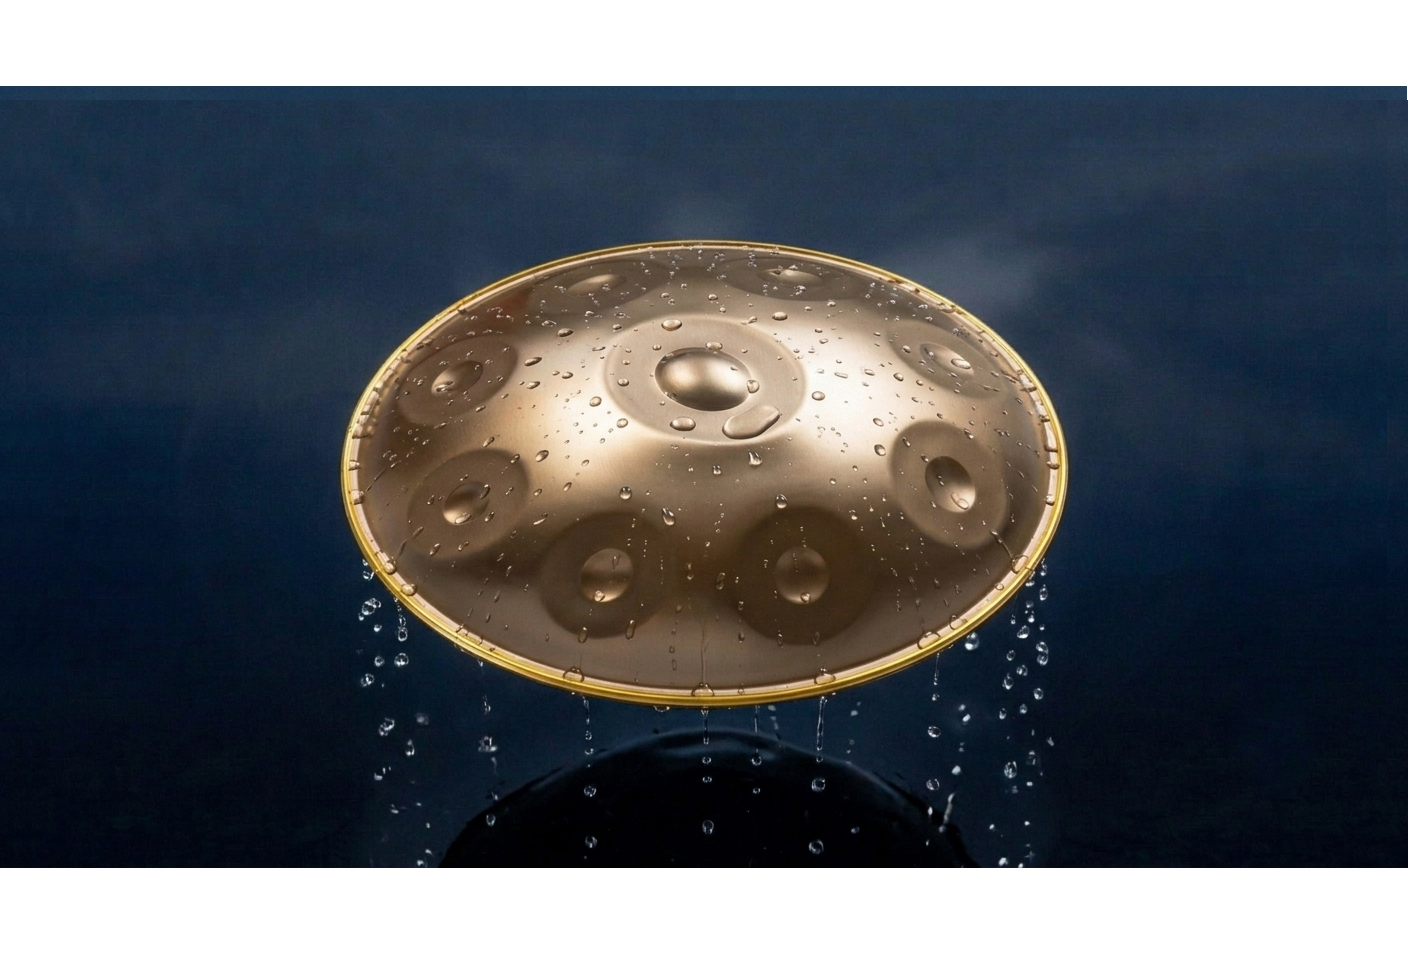
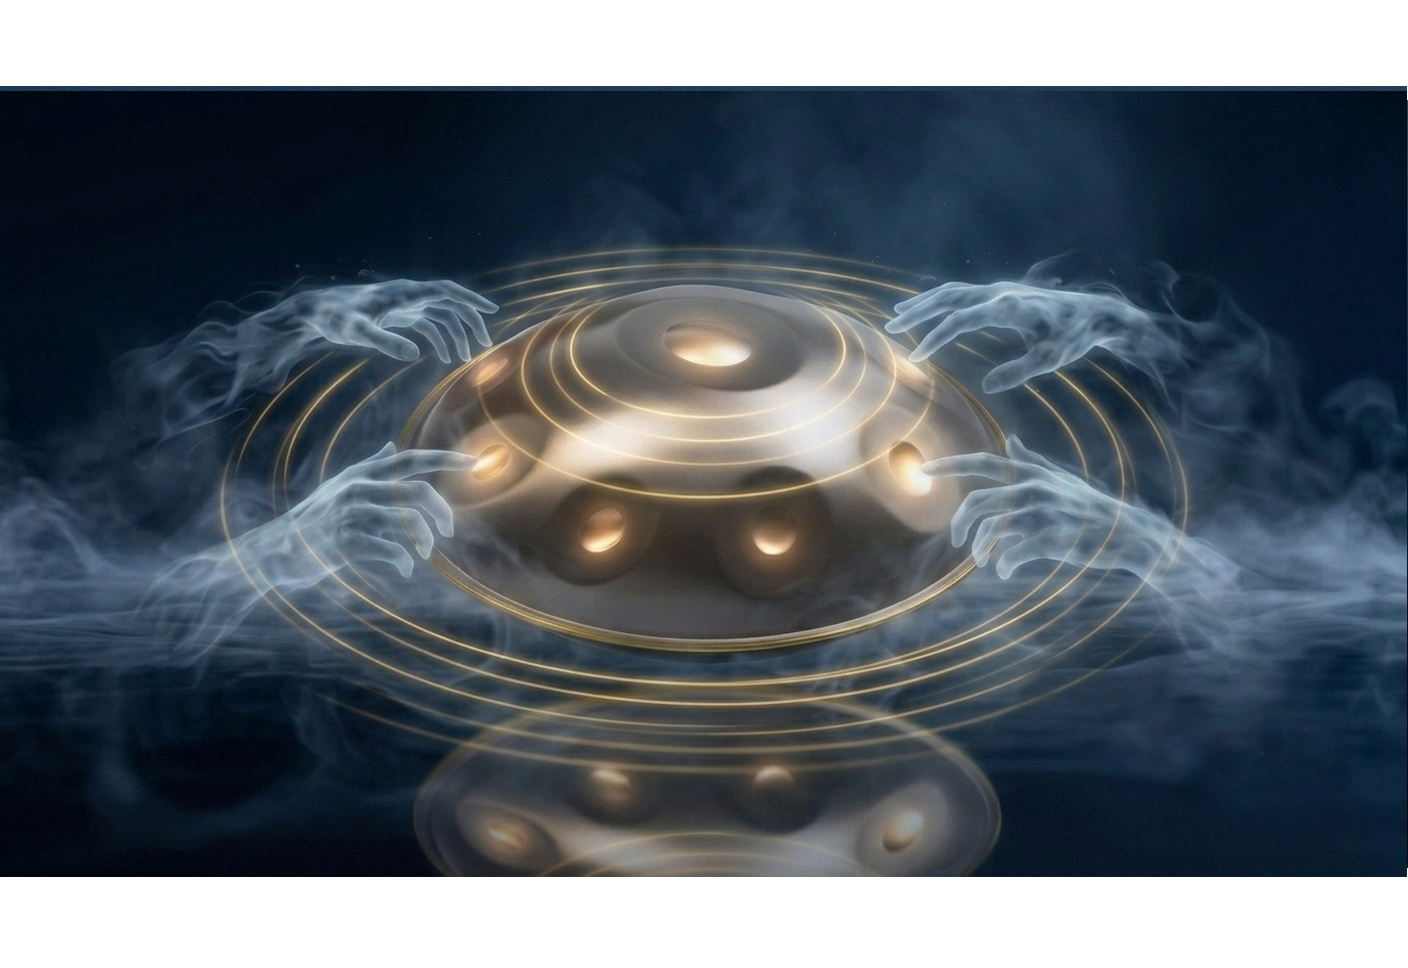
update hero frames to 571 frames

diff --git a/scroll-frame-hero.html b/scroll-frame-hero.html
@@ -1,0 +1,208 @@
+<!DOCTYPE html>
+<html lang="fa" dir="rtl">
+<head>
+<meta charset="UTF-8">
+<meta name="viewport" content="width=device-width, initial-scale=1.0">
+<title>Scroll Frame Hero</title>
+<style>
+  * { margin: 0; padding: 0; box-sizing: border-box; }
+
+  body {
+    font-family: -apple-system, "Segoe UI", Tahoma, sans-serif;
+  }
+
+  /* این کانتینر ارتفاعش رو تعیین میکنه که چقدر باید اسکرول کنی
+     تا انیمیشن کامل بشه. هرچی عدد بزرگتر، اسکرول کندتر پیش میره. */
+  .hero-scroll-container {
+    position: relative;
+    height: 400vh; /* 4 برابر ارتفاع صفحه = فضای اسکرول */
+  }
+
+  /* این بخش وقتی تو viewport هست میچسبه و ثابت میمونه
+     تا زمانی که کانتینر بالا تموم بشه */
+  .hero-sticky {
+    position: sticky;
+    top: 0;
+    height: 100vh;
+    width: 100%;
+    overflow: hidden;
+    background: #0a0a0a;
+    display: flex;
+    align-items: center;
+    justify-content: center;
+  }
+
+  #hero-canvas {
+    width: 100%;
+    height: 100%;
+    object-fit: cover;
+  }
+
+  /* نوار پیشرفت لود شدن فریمها */
+  .loader {
+    position: absolute;
+    inset: 0;
+    background: #0a0a0a;
+    display: flex;
+    flex-direction: column;
+    align-items: center;
+    justify-content: center;
+    color: #fff;
+    font-size: 14px;
+    letter-spacing: 0.5px;
+    z-index: 10;
+    transition: opacity 0.4s ease;
+  }
+  .loader-bar-track {
+    width: 200px;
+    height: 2px;
+    background: rgba(255,255,255,0.2);
+    margin-top: 16px;
+    overflow: hidden;
+  }
+  .loader-bar-fill {
+    height: 100%;
+    width: 0%;
+    background: #fff;
+    transition: width 0.15s ease;
+  }
+  .loader.hidden {
+    opacity: 0;
+    pointer-events: none;
+  }
+
+  /* محتوای بعد از هیرو، فقط برای تست اسکرول */
+  .next-section {
+    height: 100vh;
+    display: flex;
+    align-items: center;
+    justify-content: center;
+    background: #f4f4f4;
+    font-size: 24px;
+    color: #333;
+  }
+</style>
+</head>
+<body>
+
+<div class="hero-scroll-container">
+  <div class="hero-sticky">
+    <div class="loader" id="loader">
+      <div>در حال آمادهسازی...</div>
+      <div class="loader-bar-track">
+        <div class="loader-bar-fill" id="loaderBarFill"></div>
+      </div>
+    </div>
+    <canvas id="hero-canvas"></canvas>
+  </div>
+</div>
+
+<div class="next-section">ادامه محتوای سایت اینجا میاد</div>
+
+<script>
+(function () {
+  // ---------- تنظیمات ----------
+  const FRAME_COUNT = 571;              // تعداد کل فریمها
+  const FRAME_PATH_PREFIX = "frames/frame_"; // مسیر پوشه فریمها
+  const FRAME_PATH_SUFFIX = ".jpg";     // پسوند فریمها (jpg یا webp)
+  const FRAME_DIGITS = 3;               // چند رقمیه اسم فایل (frame_001 = 3 رقم)
+
+  const canvas = document.getElementById("hero-canvas");
+  const ctx = canvas.getContext("2d");
+  const loader = document.getElementById("loader");
+  const loaderBarFill = document.getElementById("loaderBarFill");
+  const scrollContainer = document.querySelector(".hero-scroll-container");
+
+  const images = new Array(FRAME_COUNT);
+  let loadedCount = 0;
+  let currentFrameIndex = 0;
+
+  function frameSrc(index) {
+    const num = String(index + 1).padStart(FRAME_DIGITS, "0");
+    return FRAME_PATH_PREFIX + num + FRAME_PATH_SUFFIX;
+  }
+
+  function resizeCanvas() {
+    canvas.width = window.innerWidth;
+    canvas.height = window.innerHeight;
+    drawFrame(currentFrameIndex);
+  }
+
+  function drawFrame(index) {
+    const img = images[index];
+    if (!img || !img.complete || img.naturalWidth === 0) return;
+
+    const canvasRatio = canvas.width / canvas.height;
+    const imgRatio = img.naturalWidth / img.naturalHeight;
+    let drawWidth, drawHeight, offsetX, offsetY;
+
+    // شبیه object-fit: cover
+    if (imgRatio > canvasRatio) {
+      drawHeight = canvas.height;
+      drawWidth = drawHeight * imgRatio;
+      offsetX = (canvas.width - drawWidth) / 2;
+      offsetY = 0;
+    } else {
+      drawWidth = canvas.width;
+      drawHeight = drawWidth / imgRatio;
+      offsetX = 0;
+      offsetY = (canvas.height - drawHeight) / 2;
+    }
+
+    ctx.clearRect(0, 0, canvas.width, canvas.height);
+    ctx.drawImage(img, offsetX, offsetY, drawWidth, drawHeight);
+  }
+
+  function updateFrameFromScroll() {
+    const rect = scrollContainer.getBoundingClientRect();
+    const totalScrollable = scrollContainer.offsetHeight - window.innerHeight;
+    // چقدر از کانتینر اسکرول شده (0 تا 1)
+    let progress = -rect.top / totalScrollable;
+    progress = Math.min(Math.max(progress, 0), 1);
+
+    const frameIndex = Math.min(
+      FRAME_COUNT - 1,
+      Math.floor(progress * FRAME_COUNT)
+    );
+
+    if (frameIndex !== currentFrameIndex) {
+      currentFrameIndex = frameIndex;
+      drawFrame(currentFrameIndex);
+    }
+  }
+
+  // ---------- پیشبارگذاری فریمها ----------
+  function preloadFrames() {
+    for (let i = 0; i < FRAME_COUNT; i++) {
+      const img = new Image();
+      img.onload = img.onerror = function () {
+        loadedCount++;
+        const percent = Math.round((loadedCount / FRAME_COUNT) * 100);
+        loaderBarFill.style.width = percent + "%";
+
+        // همین که چند فریم اول لود شد، اولین فریم رو نشون بده
+        if (loadedCount === 1) {
+          resizeCanvas();
+        }
+
+        if (loadedCount === FRAME_COUNT) {
+          loader.classList.add("hidden");
+        }
+      };
+      img.src = frameSrc(i);
+      images[i] = img;
+    }
+  }
+
+  // ---------- اجرا ----------
+  window.addEventListener("resize", resizeCanvas);
+  window.addEventListener("scroll", updateFrameFromScroll, { passive: true });
+
+  resizeCanvas();
+  preloadFrames();
+  updateFrameFromScroll();
+})();
+</script>
+
+</body>
+</html>